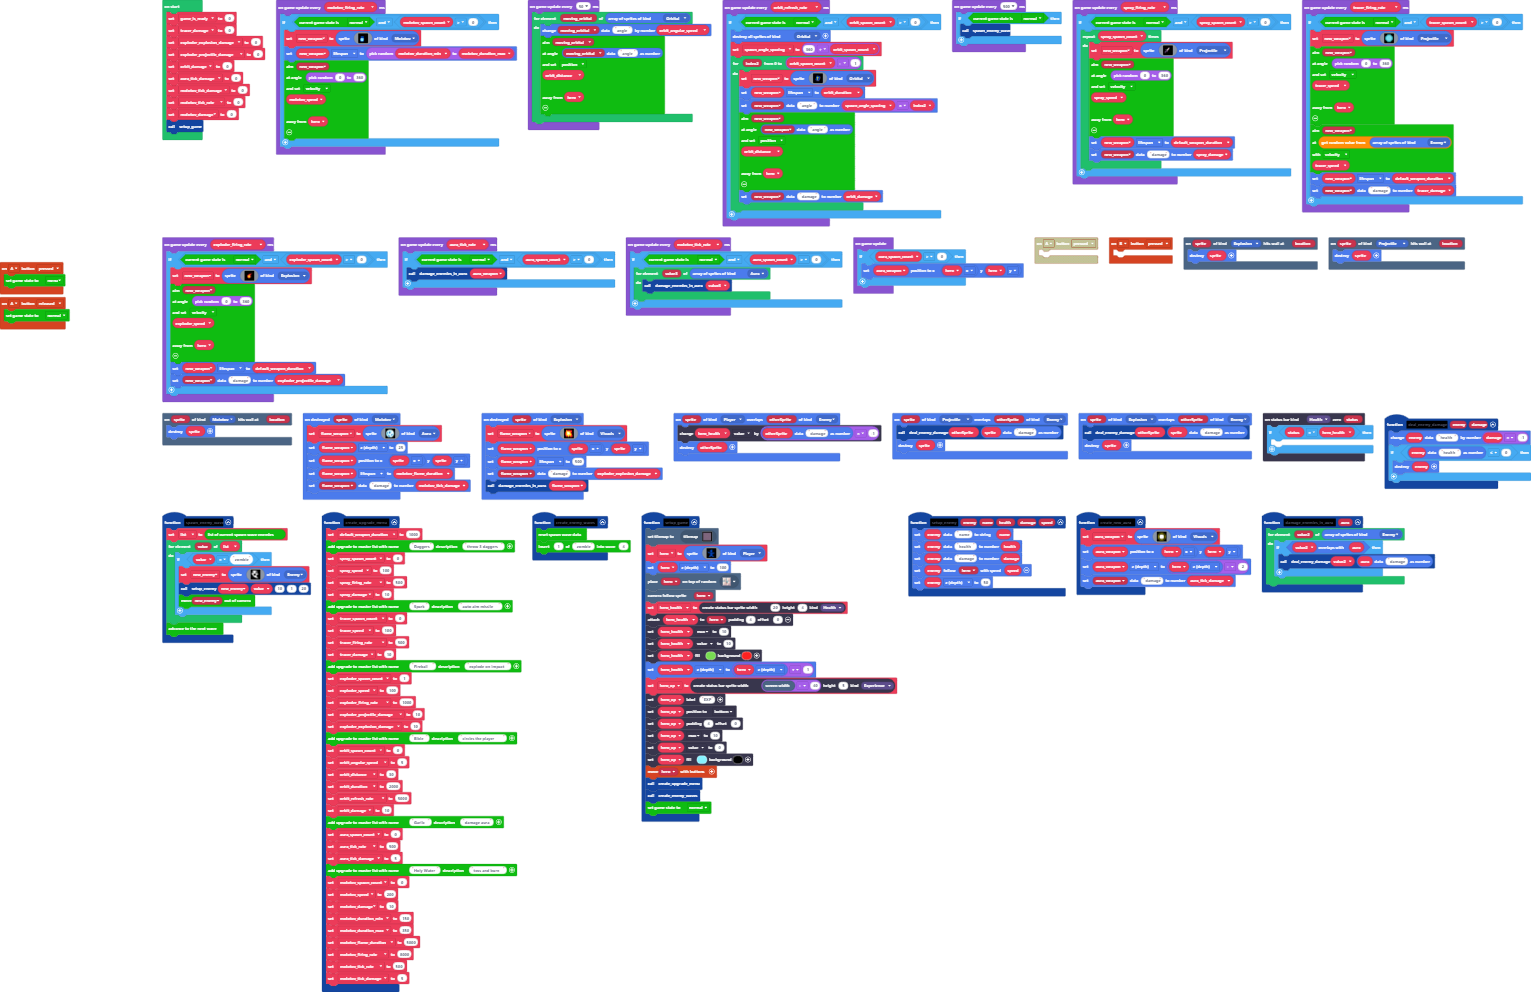
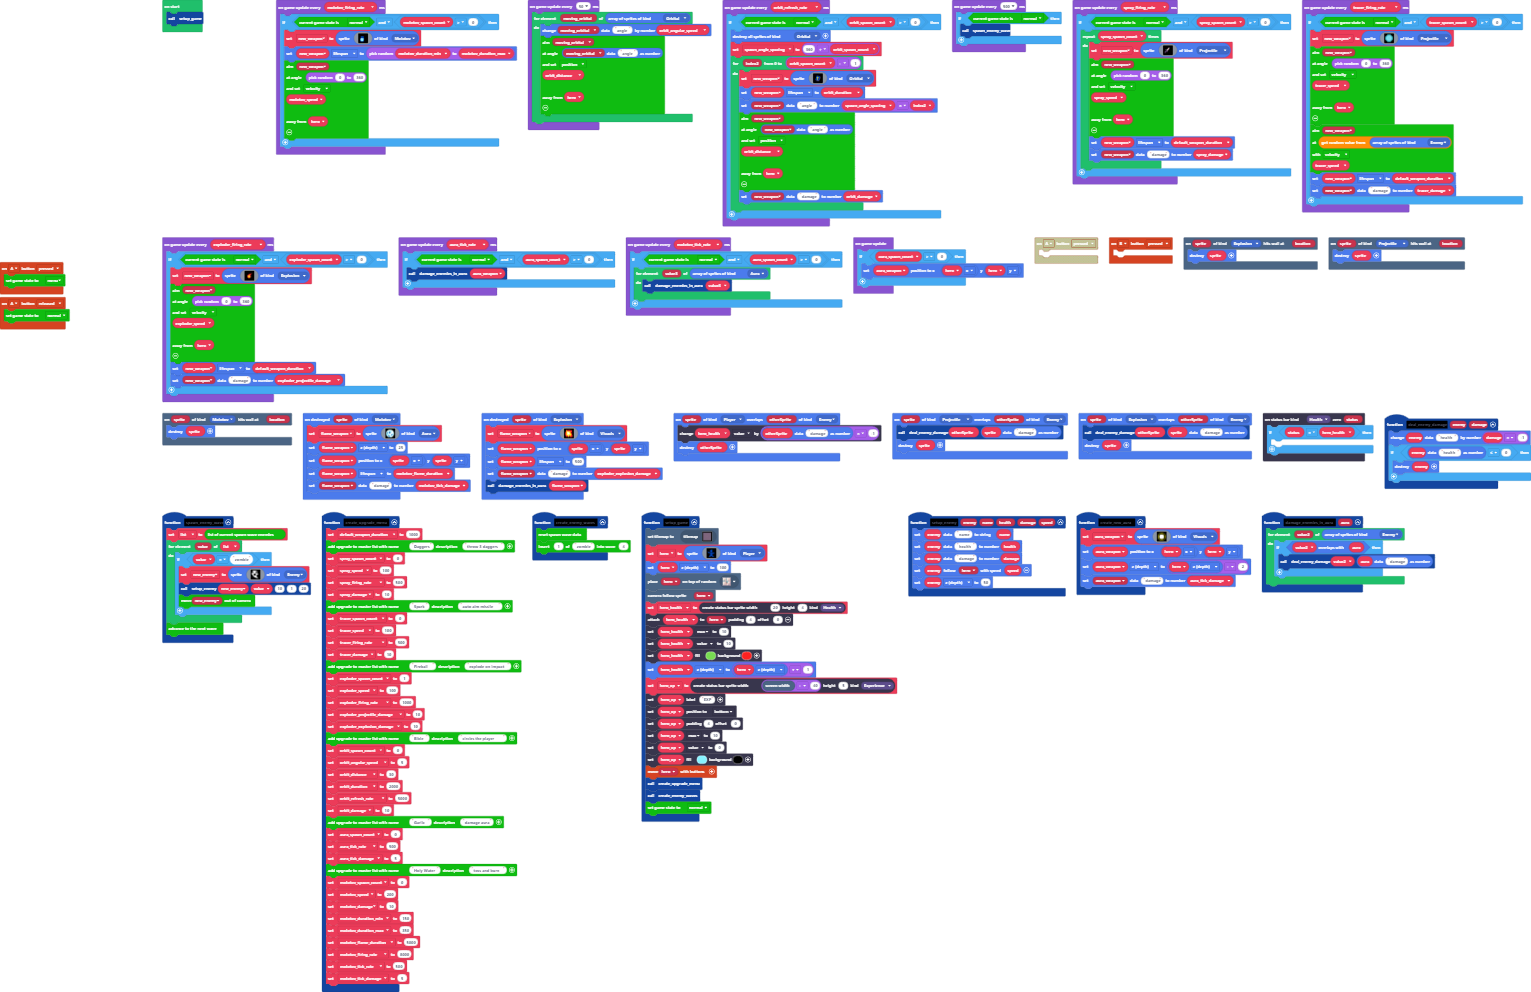
block cleanup

Changed region(s): [[0.0921, 0.0, 0.1842, 0.1562]]

diff --git a/tilemap.g.ts b/tilemap.g.ts
@@ -129,6 +129,25 @@ namespace myTiles {
 2..............................................................2
 2222222222222222222222222222222222222222222222222222222222222222
 `, [myTiles.transparency16,sprites.dungeon.floorDark0,sprites.dungeon.floorDark1,sprites.dungeon.floorDark4,sprites.dungeon.floorLightMoss,sprites.dungeon.floorLight4,sprites.dungeon.greenOuterNorthWest,sprites.dungeon.greenOuterNorth0,sprites.dungeon.greenOuterNorthEast,sprites.dungeon.greenOuterEast0,sprites.dungeon.greenOuterWest1,sprites.dungeon.greenOuterSouthEast,sprites.dungeon.greenOuterSouthWest,sprites.dungeon.greenOuterSouth0,sprites.dungeon.floorDark3], TileScale.Sixteen);
+            case "level5":
+            case "level5":return tiles.createTilemap(hex`1000100000000000000000000000000000000000000000000000000000000000000000000000000000000000000000000000000000000000000000000000000000000000000000000000000000000000000000000000000000000000000000000000000000000000000000000000000000000000000000000000000000000000000000000000000000000000000000000000000000000000000000000000000000000000000000000000000000000000000000000000000000000000000000000000000000000000000000000000000000000000000000000000000000000000000000000000000000000000000000000000000000000000000000000000000000000000`, img`
+. . . . . . . . . . . . . . . . 
+. . . . . . . . . . . . . . . . 
+. . . . . . . . . . . . . . . . 
+. . . . . . . . . . . . . . . . 
+. . . . . . . . . . . . . . . . 
+. . . . . . . . . . . . . . . . 
+. . . . . . . . . . . . . . . . 
+. . . . . . . . . . . . . . . . 
+. . . . . . . . . . . . . . . . 
+. . . . . . . . . . . . . . . . 
+. . . . . . . . . . . . . . . . 
+. . . . . . . . . . . . . . . . 
+. . . . . . . . . . . . . . . . 
+. . . . . . . . . . . . . . . . 
+. . . . . . . . . . . . . . . . 
+. . . . . . . . . . . . . . . . 
+`, [myTiles.transparency16], TileScale.Sixteen);
         }
         return null;
     })

diff --git a/main.ts b/main.ts
@@ -166,21 +166,26 @@ sprites.onOverlap(SpriteKind.Player, SpriteKind.Enemy, function (sprite, otherSp
 let spawn_angle_spacing = 0
 let new_weapon: Sprite = null
 let hero_xp: StatusBarSprite = null
+let molotov_tick_rate = 0
 let molotov_firing_rate = 0
 let molotov_duration_max = 0
 let molotov_duration_min = 0
+let molotov_damage = 0
 let molotov_speed = 0
 let molotov_spawn_count = 0
 let aura_tick_rate = 0
 let aura_spawn_count = 0
+let orbit_damage = 0
 let orbit_refresh_rate = 0
 let orbit_duration = 0
 let orbit_distance = 0
 let orbit_angular_speed = 0
 let orbit_spawn_count = 0
+let exploder_projectile_damage = 0
 let exploder_firing_rate = 0
 let exploder_speed = 0
 let exploder_spawn_count = 0
+let tracer_damage = 0
 let tracer_firing_rate = 0
 let tracer_speed = 0
 let tracer_spawn_count = 0
@@ -189,30 +194,16 @@ let spray_firing_rate = 0
 let spray_speed = 0
 let spray_spawn_count = 0
 let default_weapon_duration = 0
+let exploder_explosion_damage = 0
 let hero_health: StatusBarSprite = null
+let aura_tick_damage = 0
 let hero: Sprite = null
 let aura_weapon: Sprite = null
+let molotov_tick_damage = 0
 let molotov_flame_duration = 0
 let flame_weapon: Sprite = null
 let new_enemy: Sprite = null
 let list: string[] = []
-let molotov_damage = 0
-let molotov_tick_rate = 0
-let molotov_tick_damage = 0
-let aura_tick_damage = 0
-let orbit_damage = 0
-let exploder_projectile_damage = 0
-let exploder_explosion_damage = 0
-let tracer_damage = 0
-let game_is_ready = 0
-tracer_damage = 0
-exploder_explosion_damage = 0
-exploder_projectile_damage = 0
-orbit_damage = 0
-aura_tick_damage = 0
-molotov_tick_damage = 0
-molotov_tick_rate = 0
-molotov_damage = 0
 setup_game()
 game.onUpdate(function () {
     if (aura_spawn_count > 0) {
